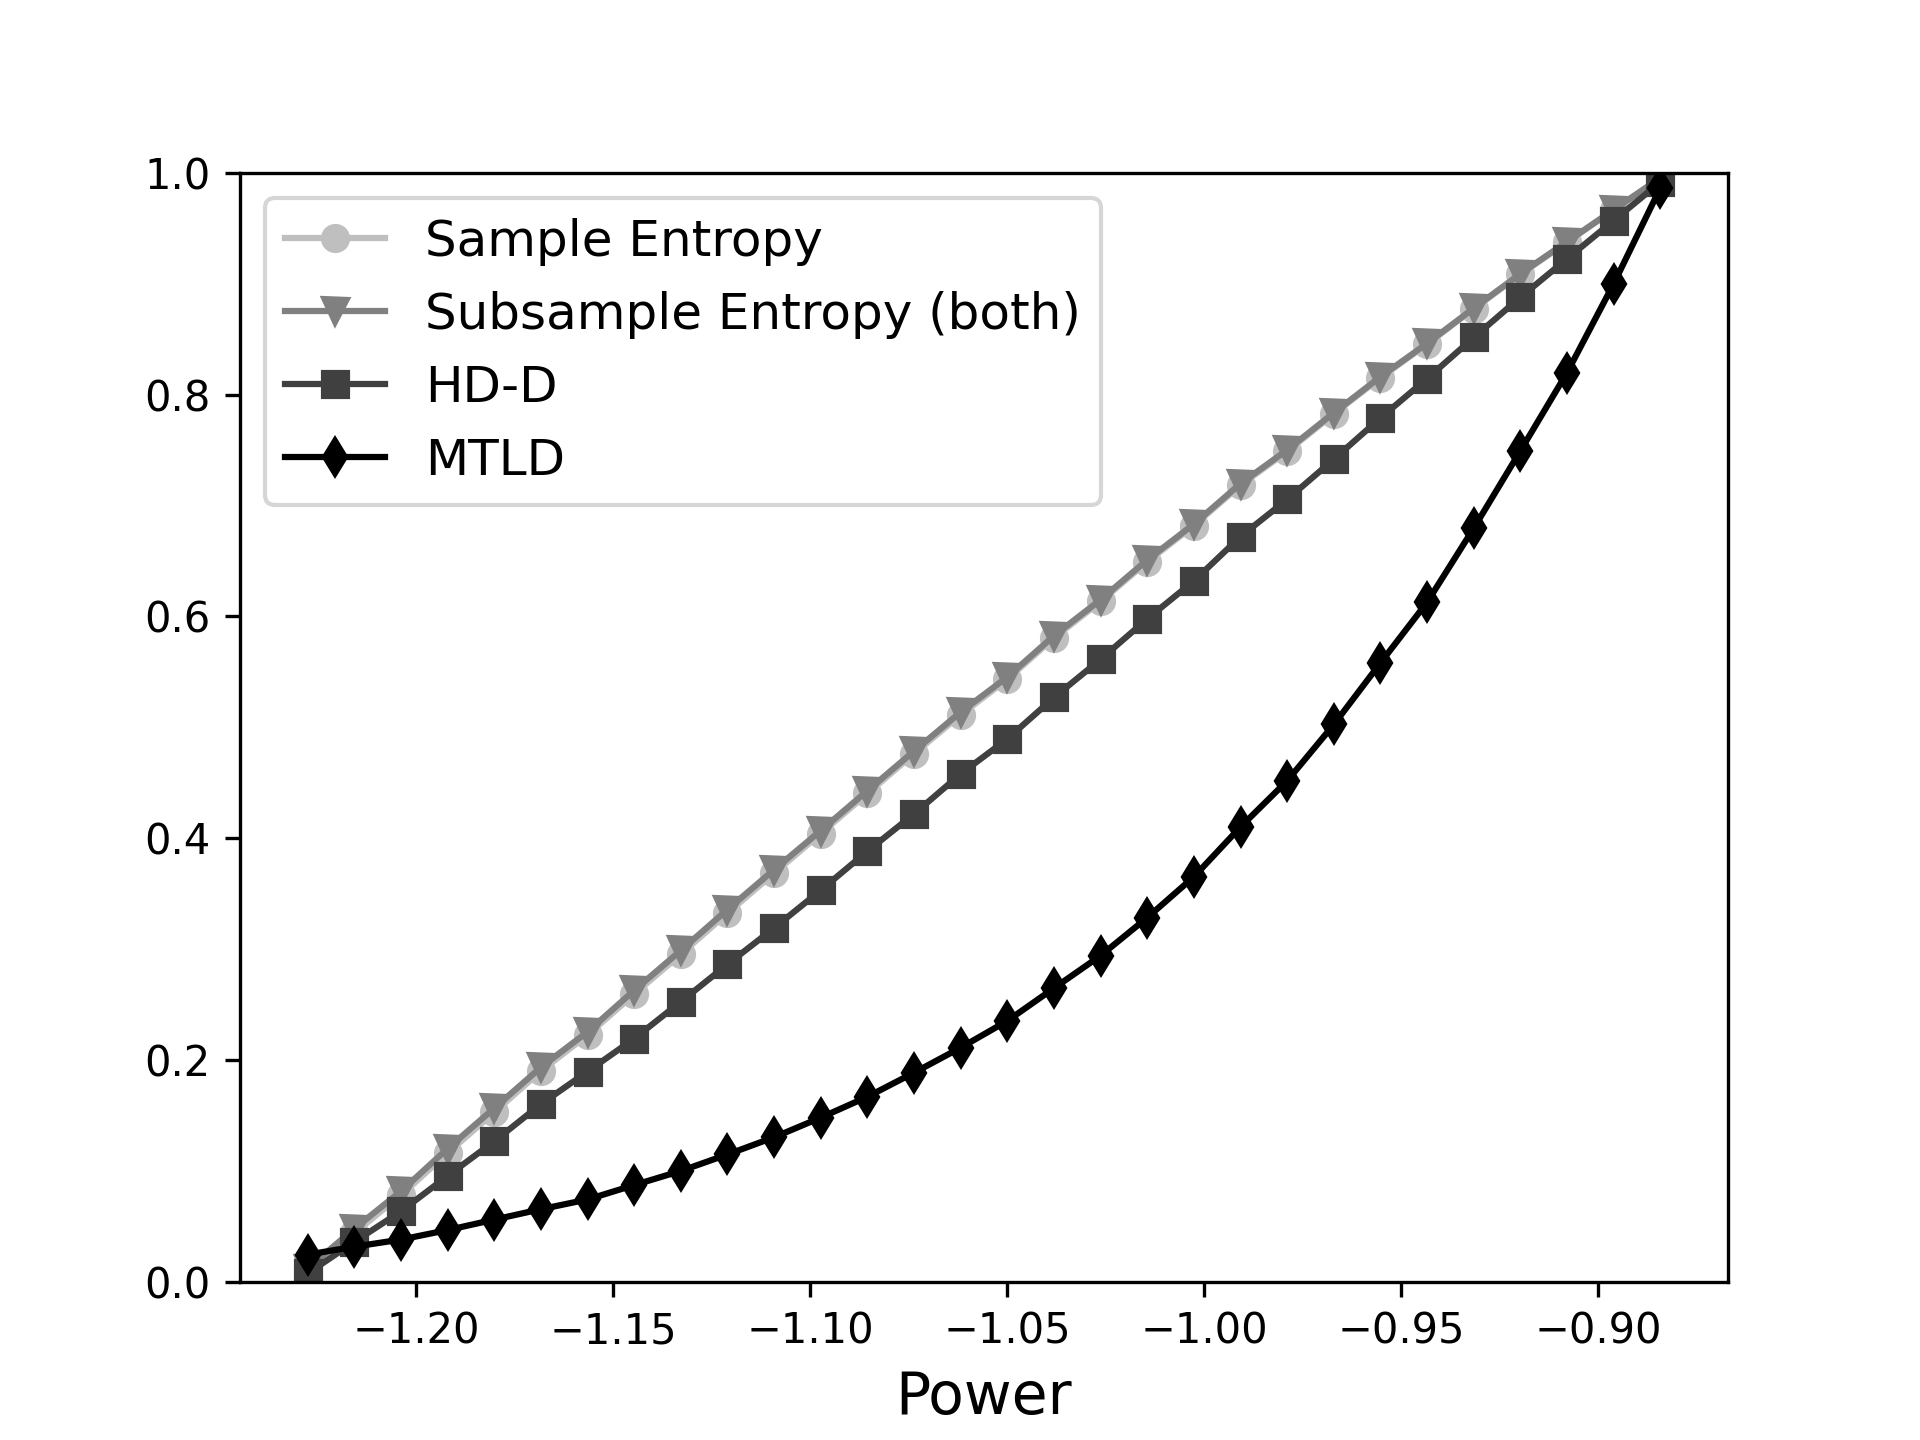
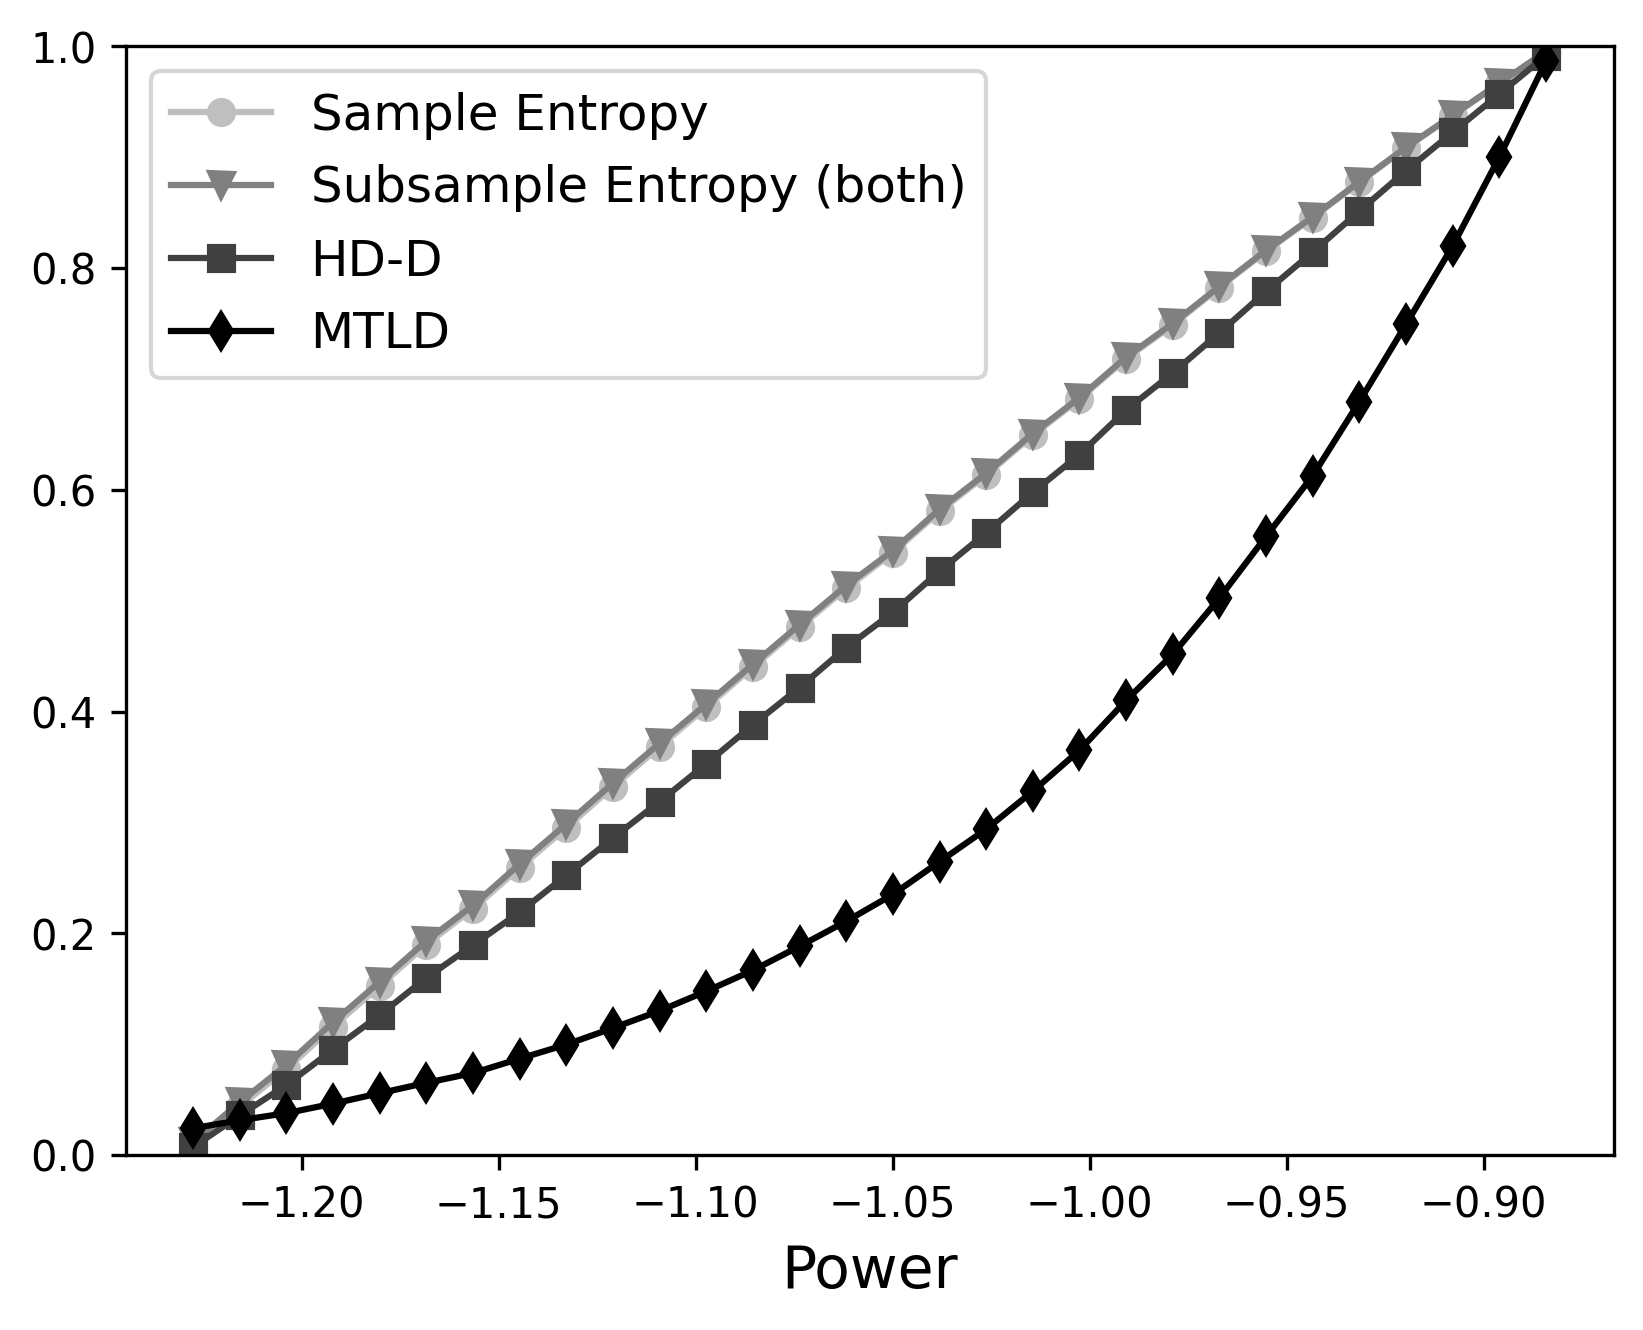
fine tune figures

diff --git a/src/artificial_corpora_analyse_res.py b/src/artificial_corpora_analyse_res.py
@@ -64,8 +64,7 @@ for id_type, graph_type in enumerate(graph_types):
                  marker=markers[measure_name_id], 
                  label=measure_clean_names[measure_name_id])
             
-    if graph_type == 'slope':
-        plt.legend(fontsize='12')
+    plt.legend(loc='upper left', fontsize='12')
     plt.xlabel(graph_type_names[id_type], fontsize='14')
     plt.ylim((0, 1))
     plt.savefig(f"{output_folder_path}/{output_file_prefix}_{graph_type}.png", 
